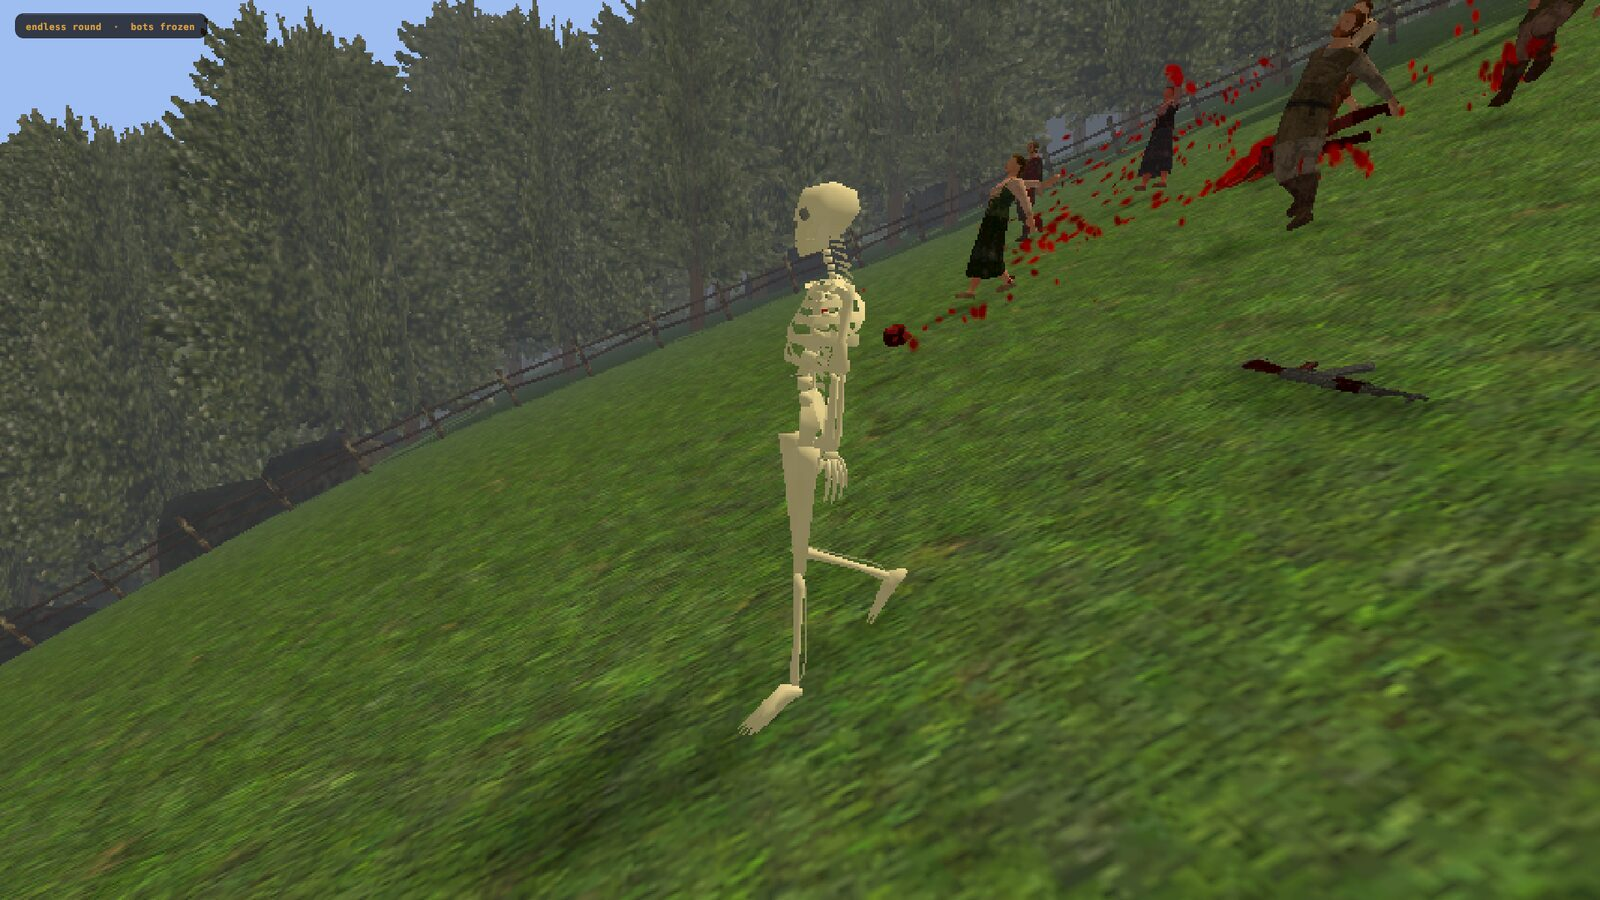
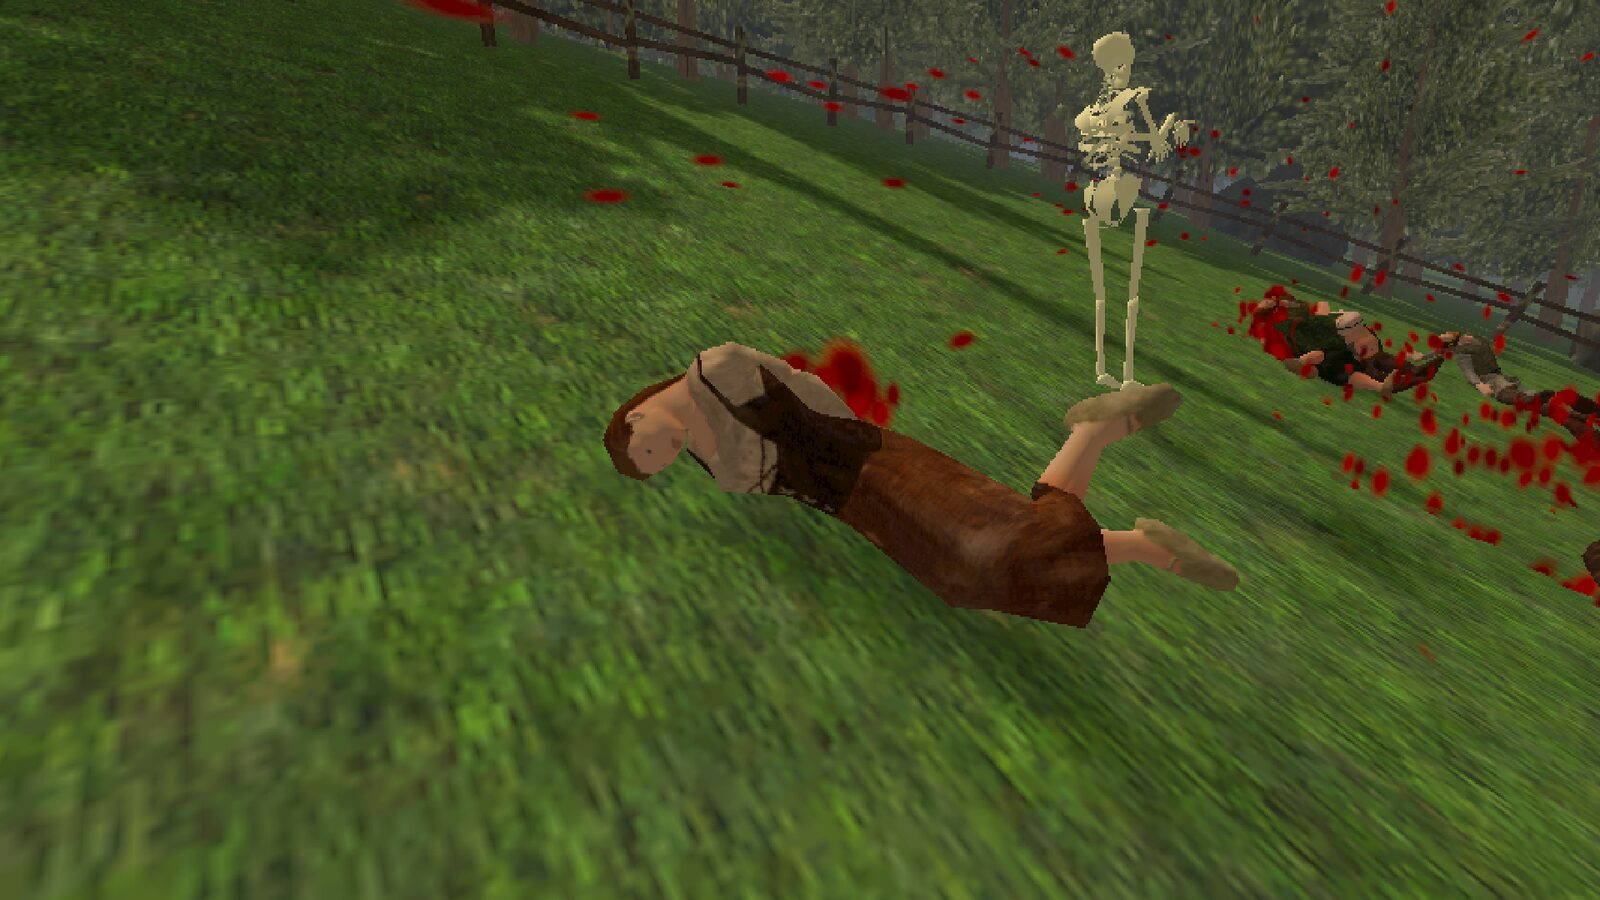
Screenshots: retaken with the freecam on bright maps

diff --git a/README.md b/README.md
@@ -27,7 +27,7 @@ Modzarella is a mod manager for [Cheese Rolling](https://store.steampowered.com/
   <img src="docs/screenshots/bmw.jpg" alt="Driving the BMW" width="24%">
   <img src="docs/screenshots/guns.jpg" alt="Shooting the AK-47 in first person" width="24%">
   <img src="docs/screenshots/toilet.jpg" alt="Flying the rocket toilet" width="24%">
-  <img src="docs/screenshots/euphoria.jpg" alt="Euphoria after a crash" width="24%">
+  <img src="docs/screenshots/euphoria.jpg" alt="A wounded bot with Euphoria" width="24%">
 </p>
 
 ## Features
